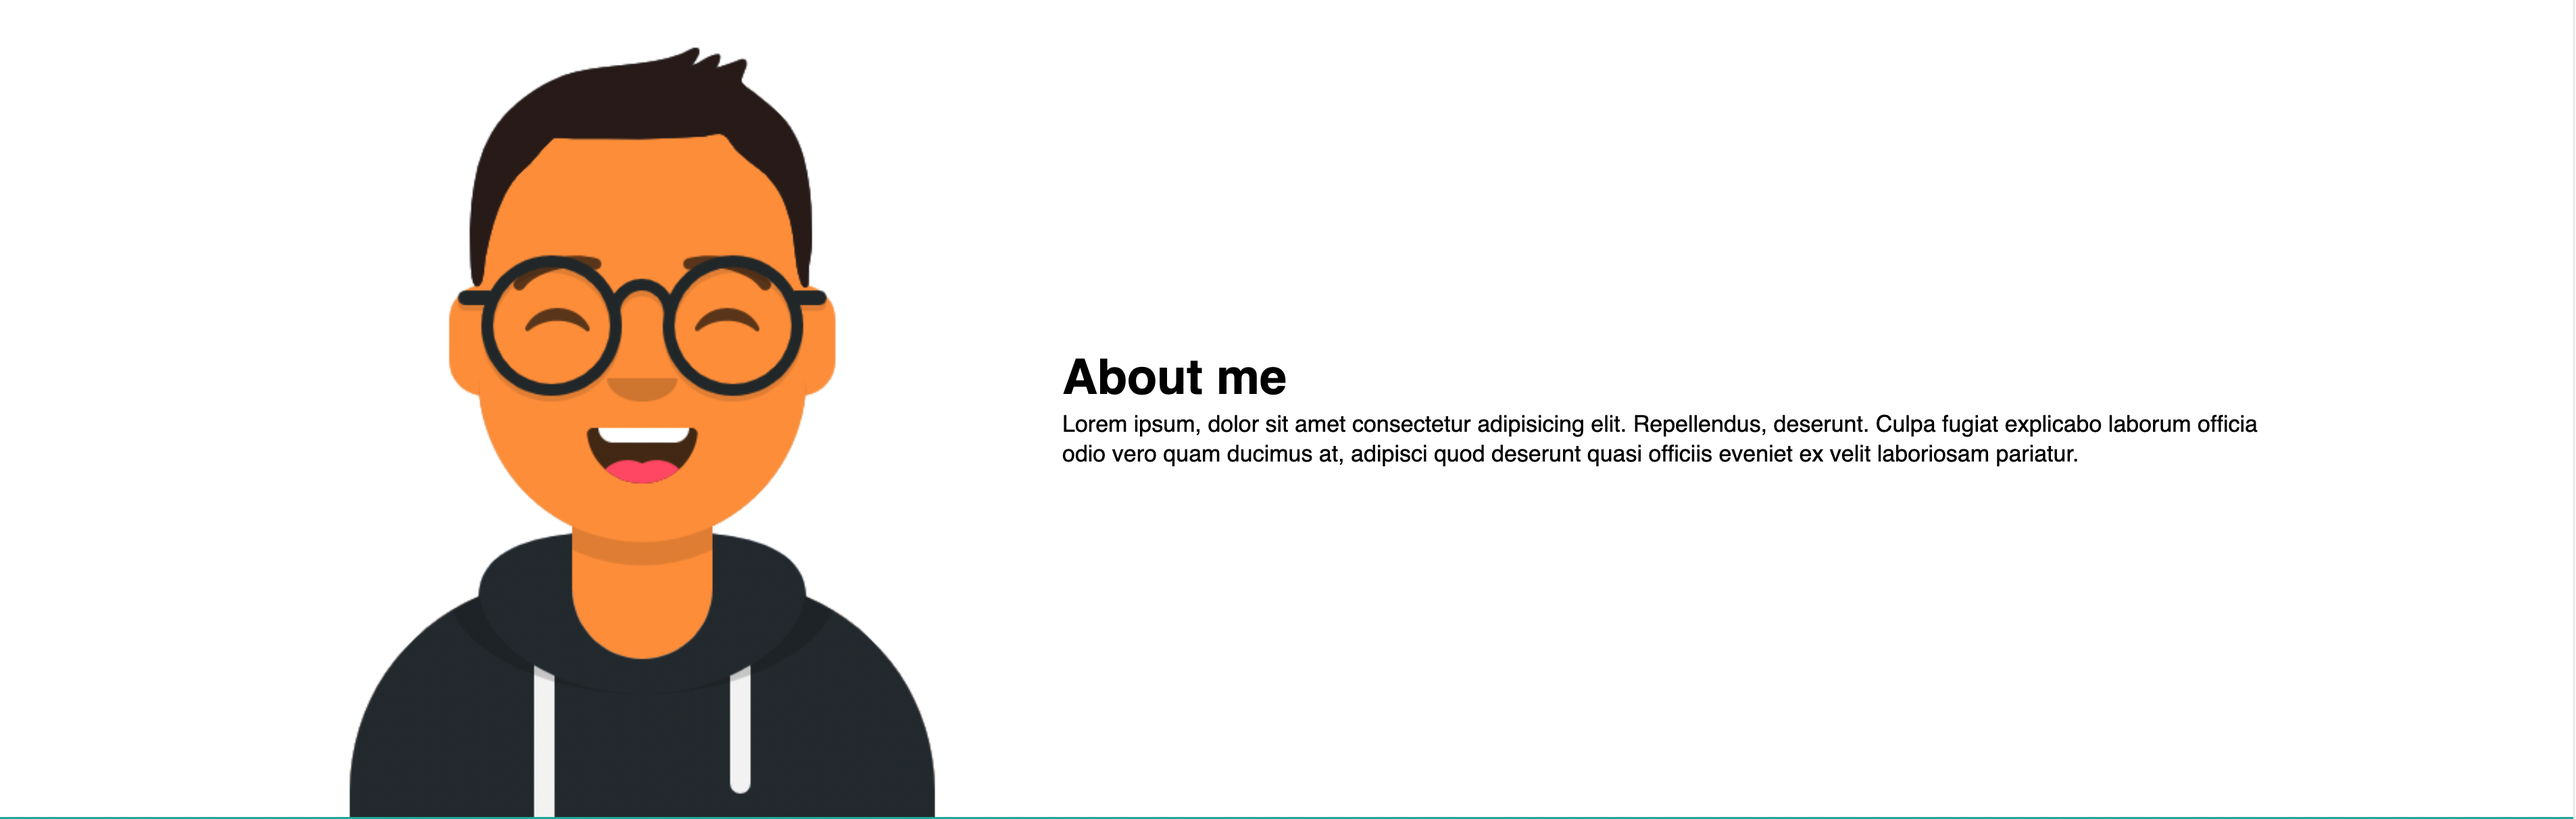
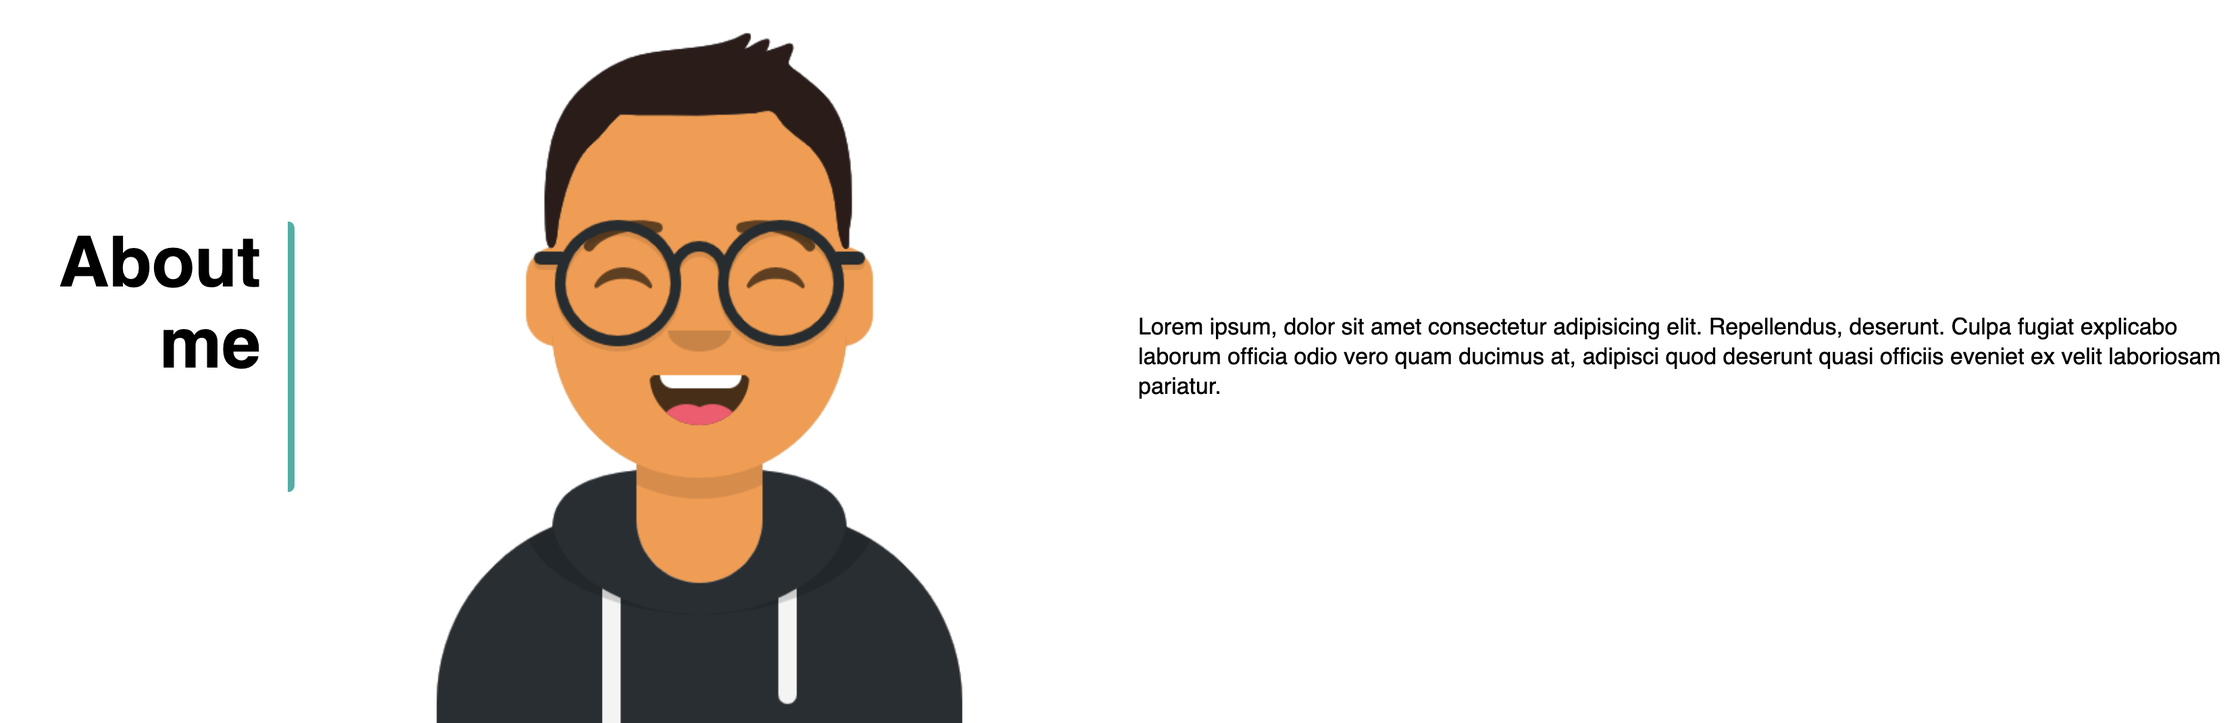
adjusted styling for section headers and portfolio to match mockup

Changed region(s): [[0.0, 0.0308, 1.0, 1.0], [0.0311, 0.3084, 0.1242, 0.4009], [0.0621, 0.4318, 0.1242, 0.5243]]

diff --git a/assets/css/style.css b/assets/css/style.css
@@ -20,7 +20,12 @@ header {
     display: flex;
     justify-content: space-between;
     flex-wrap: wrap;
-    margin: 0;
+    top: 0;
+    position: -webkit-sticky;
+    position: sticky;
+    background: fixed;
+    background-color: rgb(33, 176, 166);
+    z-index: 9999;
 }
 
 header h1 {
@@ -69,37 +74,32 @@ header nav ul li a:hover {
 }
 /*header style end*/
 
-.container {
-    position: relative;
-    width: 600px;
-    height: 400px;
-  }
-
-  #someimg {
-    position: absolute;
-    top: 0;
-    left: 0;
-    width: 600px;
-    height: 400px;
-  }
-
-
-
-
 /*about me style beg*/
 .intro .myinfo{
     margin: 0 auto;
     display: flex;
     flex-wrap: wrap;
-    justify-content: center;
+    justify-content: space-between;
     align-items: center;
     background-color: rgb(255,255,255);
+    width: 100%;
 
 }
 
 .myinfo {    
     flex:  1;
 }
+
+.myinfo h2 {
+    text-align: right;
+    padding-right: 20px;
+    width: 15%;
+    height: 200px;
+    border-right: 5px solid rgb(33, 176, 166);
+    border-radius: 5px ;
+    font-size: 3vw;
+}
+
 .myinfo img {
     width: 30%;
 }
@@ -109,13 +109,10 @@ header nav ul li a:hover {
     line-height: 1.3;
     display: flex;
     flex-wrap: wrap;
-    align-items: fle;
+    align-items: center;
     width: 50%;
 }
 
-.bio h2 {
-    font-size: 36px;
-}
 
 .bio p {
     font-size: 17px;
@@ -126,21 +123,23 @@ header nav ul li a:hover {
 .sample-applications {
     display: flex;
     flex-wrap: wrap;
-    justify-content: center;
+    justify-content: space-between;
     align-items: flex-start;
     margin: 20px 0;
+    width: 100%;
 }
 .sample-applications h2 {
-    font-size: 36px;
-    width: 80%;
+    font-size: 3vw;
+    width: 15%;
+    height: 400px;
     text-align: center;
     padding-bottom: 10px;
-    border-bottom: 5px solid rgb(255,255,255);
+    border-right: 5px solid rgb(255,255,255);
     border-radius: 5px;
 }
 
 .sample-applications section {
-    width: 58%;
+    width: 85%;
 }
 
 .sample {
@@ -162,19 +161,16 @@ header nav ul li a:hover {
     border: 3px solid rgb(255,255,255);
     width: 56.5vw;
     max-width: 100%;
-    height: 404px;
+    height: 400px;
     margin: 2px;
+    opacity: 0.5;
 }
-/*
-.sample .shader {
-        position: absolute;
-        top: 0;
-        left: 0;
-        width: 100%;
-        height: 100%;
-        background-color: rgba(0, 0, 0, 0.6);
-        color: rgb(0,0,0,0)
-} */
+
+.sample img:hover {
+    opacity: 1;
+}
+
+
 .sample span {
     display: none;
 }
@@ -189,6 +185,7 @@ header nav ul li a:hover {
     bottom: 6px;
     left: 3px;
     padding: 40px;
+    border-radius: 5px;
 }
 /*
 .sample .shade:hover .shader {
@@ -199,7 +196,7 @@ header nav ul li a:hover {
     width: 100%;
     display: flex;
     flex-wrap: wrap;
-    justify-content: space-around;
+    justify-content: center;
 }
 
 .remain-sample .remain-shade {
@@ -215,6 +212,11 @@ header nav ul li a:hover {
     max-width: 100%;
     height: 200px;
     margin: 2px;
+    opacity: 0.5;
+}
+
+.remain-sample img:hover {
+    opacity: 1;
 }
 
 .remain-sample span {
@@ -232,6 +234,7 @@ header nav ul li a:hover {
     bottom: 6px;
     left: 3px;
     padding: 15px;
+    border-radius: 5px;
 }
 /* portfolio styling end*/
 
@@ -239,40 +242,43 @@ header nav ul li a:hover {
 .connect-with-me {
     display: flex;
     flex-wrap: wrap;
-    margin: 0 auto;
     justify-content: space-between;
     align-items: center;
-    width: 80%;
+    width: 100%;
 }
 
-#contact {
-    margin-right: 20px;
-    font-size: 36px;
-    width: 100%;
-    text-align: center;
-    border-bottom: 5px solid rgb(255,255,255);
+.connect-with-me #contact {
+    font-size: 2.55vw;
+    width: 15%;
+    height: 60px;
+    text-align: left;
+    border-right: 5px solid rgb(255,255,255);
     border-radius: 5px;
     padding-bottom: 10px;
 }
 
-.connect-with-me ul {
+.connect-with-me div {
+    width: 85%;
+}
+
+.connect-with-me div ul {
     padding-top: 20px;
     display: flex;
     flex-wrap: wrap;
     justify-content: space-around;
-    align-items: center;
+    align-items: flex-start;
     width: 100%;
     list-style: none;
 }
 
-.connect-with-me ul li a{
+.connect-with-me div ul li a{
     text-decoration: none;
     color: var(--text-color);
     font-size: 1.55vw;
     padding: 10px 15px;
 }
 
-.connect-with-me ul li a:hover {
+.connect-with-me div ul li a:hover {
     border-radius: 40px;
     background-color: rgb(255,255,255);
     color: rgb(33, 176, 166);
@@ -319,9 +325,17 @@ footer h2 {
     }
 
     .sample-applications section {
-        width:90%;
+        width:100%;
     }
 
+    .sample-applications h2 {
+        padding-bottom: none;
+        padding: 10px 60px;
+        background-color: rgb(255,255,255);
+        border-right: none;
+        height: auto;
+        width: 60%;
+    }
     .sample img {
         width: 100%;
     }
@@ -329,16 +343,29 @@ footer h2 {
         width: 43vw;
         flex: 1 2 100%;
     }
+    .connect-with-me #contact {
+        padding-bottom: none;
+        padding: 10px 60px;
+        background-color: rgb(255,255,255);
+        border-right: none;
+        text-align: center;
+        height: auto;
+        width: 60%;
+    }
 
-    .connect-with-me ul li a{
-        font-size: 20px;
+    .connect-with-me div {
+        width: 100%;
+    }
+    .connect-with-me div ul li a{
+        font-size: 22px;
+ 
     }
 
 }
 @media screen and (max-width: 768px) {
 
     .sample-applications section {
-        width: 90%;
+        width: 100%;
     }
 
     .sample {
@@ -351,9 +378,11 @@ footer h2 {
      flex: 1 200%;
 
     }
-
-    .connect-with-me ul li a{
-        font-size: 20px;
+    .connect-with-me div {
+        width: 100%;
+    }
+    .connect-with-me div ul li a{
+        font-size: 15px;
     }
 
 }
@@ -364,7 +393,7 @@ footer h2 {
         flex: 1;
     }
     .sample-applications section {
-        width: 90%;
+        width: 100%;
     }
 
     .sample img {
@@ -374,8 +403,11 @@ footer h2 {
         width: 100%;
     }
 
-    .connect-with-me ul li a{
-        font-size: 20px;
+    .connect-with-me div {
+        width: 100%;
+    }
+    .connect-with-me div ul li a{
+        font-size: 15px;
     }
 
 }

diff --git a/index.html b/index.html
@@ -27,13 +27,11 @@
         </nav>
     </header>
 
-    <section class="hero"></section>
-
-    <Section class="intro">
-        <article id="about-me"  class="myinfo">
-            <img src="./assets/img/avataaars.png" alt="avatar of Tony">
+    <Section    class="intro">
+        <article class="myinfo">
+            <h2>About me</h2>
+            <img id="about-me" src="./assets/img/avataaars.png" alt="avatar of Tony">
             <div class="bio">
-                <h2>About me</h2>
                 <p>Lorem ipsum, dolor sit amet consectetur adipisicing elit. Repellendus, deserunt. Culpa fugiat explicabo laborum officia odio vero quam ducimus at, adipisci quod deserunt quasi officiis eveniet ex velit laboriosam pariatur.</p>
             </div>
         </article>
@@ -47,7 +45,6 @@
                     <div>
                         <img id="run-buddy-img" src="./assets/img/run-buddy.png" alt="Screenshoot of run buddy website">
                         <span>Run-Buddy</span>
-                        <p class="shader"></p>
                     </div>
                 </a>
 
@@ -83,26 +80,26 @@
     </section>
     
     <section class="connect-with-me">
-        <h2 id="contact">Contact Me</h2><br>
-        <ul>
-            <li>
-                <a href="mailto:placeholder@gmail.com">Email</a>
-            </li>
-            <li>
-                <a href="https://ca.linkedin.com/">LinkedIn</a>
-            </li>
-            <li>
-                <a href="https://twitter.com/">Twitter</a>
-            </li>
-            <li>
-                <a href="https://github.com/">GitHub</a>
-            </li>
-            <li>
-                <a href="#">Resume</a>
-            </li>
-
-        </ul>
-        
+        <h2 id="contact">Contact Me</h2>
+        <div>
+            <ul>
+                <li>
+                    <a href="mailto:placeholder@gmail.com">Email</a>
+                </li>
+                <li>
+                    <a href="https://ca.linkedin.com/">LinkedIn</a>
+                </li>
+                <li>
+                    <a href="https://twitter.com/">Twitter</a>
+                </li>
+                <li>
+                    <a href="https://github.com/">GitHub</a>
+                </li>
+                <li>
+                    <a href="#">Resume</a>
+                </li>
+            </ul>
+        </div>        
     </section>
 
     <footer>
